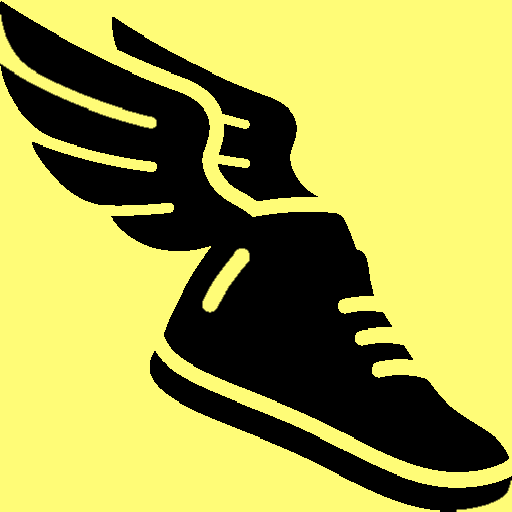
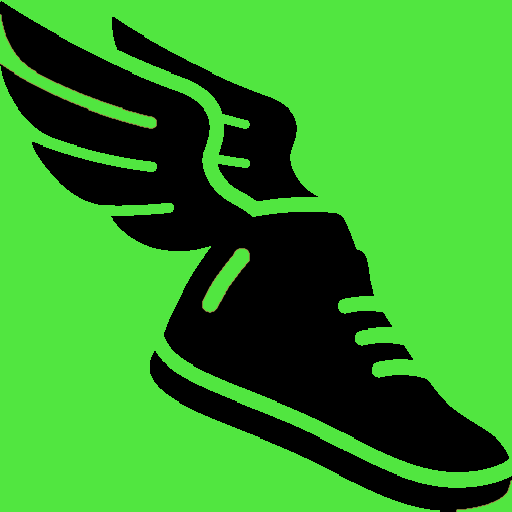
color update

diff --git a/src/arena/scene/SceneVisualsHandler.ts b/src/arena/scene/SceneVisualsHandler.ts
@@ -3,6 +3,9 @@ import SceneHandler from "./SceneHandler";
 
 export default class SceneVisualsHandler {
 
+    private static readonly TEAM_A_COLOR = 0xf00e30;
+    private static readonly TEAM_B_COLOR = 0x0e52f0;
+
     private sceneHandler: SceneHandler;
     private scene: Scene;
 
@@ -61,8 +64,8 @@ export default class SceneVisualsHandler {
         if (this.ammoPowerupVisuals) {
             this.scene.remove(this.ammoPowerupVisuals);
         }
-        const teamASpawnMesh = this.createRotatedPositionsVisualMesh(this.sceneHandler.teamASpawnPositions, 0x009247);
-        const teamBSpawnMesh = this.createRotatedPositionsVisualMesh(this.sceneHandler.teamBSpawnPositions, 0xcf2b36);
+        const teamASpawnMesh = this.createRotatedPositionsVisualMesh(this.sceneHandler.teamASpawnPositions, SceneVisualsHandler.TEAM_A_COLOR);
+        const teamBSpawnMesh = this.createRotatedPositionsVisualMesh(this.sceneHandler.teamBSpawnPositions, SceneVisualsHandler.TEAM_B_COLOR);
 
         const shieldPowerupMesh = this.createPositionsVisualMesh(this.sceneHandler.shieldPowerupPositions, this.shieldTexture);
         const healthPowerupMesh = this.createPositionsVisualMesh(this.sceneHandler.healthPowerupPositions, this.healthTexture);

diff --git a/src/arena/scene/SceneHandler.ts b/src/arena/scene/SceneHandler.ts
@@ -11,6 +11,8 @@ import SceneVisualsHandler from "./SceneVisualsHandler";
 
 export default class SceneHandler extends Component {
 
+    private static readonly BLOCK_COLOR = 0xc0c0c0;
+
     public blockPositions: Vector3[];
 
     public teamASpawnPositions: Vector4[];
@@ -144,7 +146,7 @@ export default class SceneHandler extends Component {
             this.blocks.geometry = masterGeo;
 
         } else {
-            const material = new MeshLambertMaterial({color: 0x0077ef});
+            const material = new MeshLambertMaterial({color: SceneHandler.BLOCK_COLOR});
             this.blocks = new Mesh(masterGeo, material);
             this.blocks.position.addScalar(0.5);
             if (positions) {

diff --git a/src/arena/player/Player.ts b/src/arena/player/Player.ts
@@ -15,7 +15,7 @@ export default class Player extends Component {
 
     private static readonly MOVEMENT_SPEED = 5;
     private static readonly ROTATION_SPEED = 2.5;
-    private static readonly RAMMING_SPEED_MULTI = 2.5;
+    private static readonly RAMMING_SPEED_MULTI = 2;
 
     private static readonly X_OFFSET = 0.5;
     private static readonly Z_OFFSET = 0.75;
